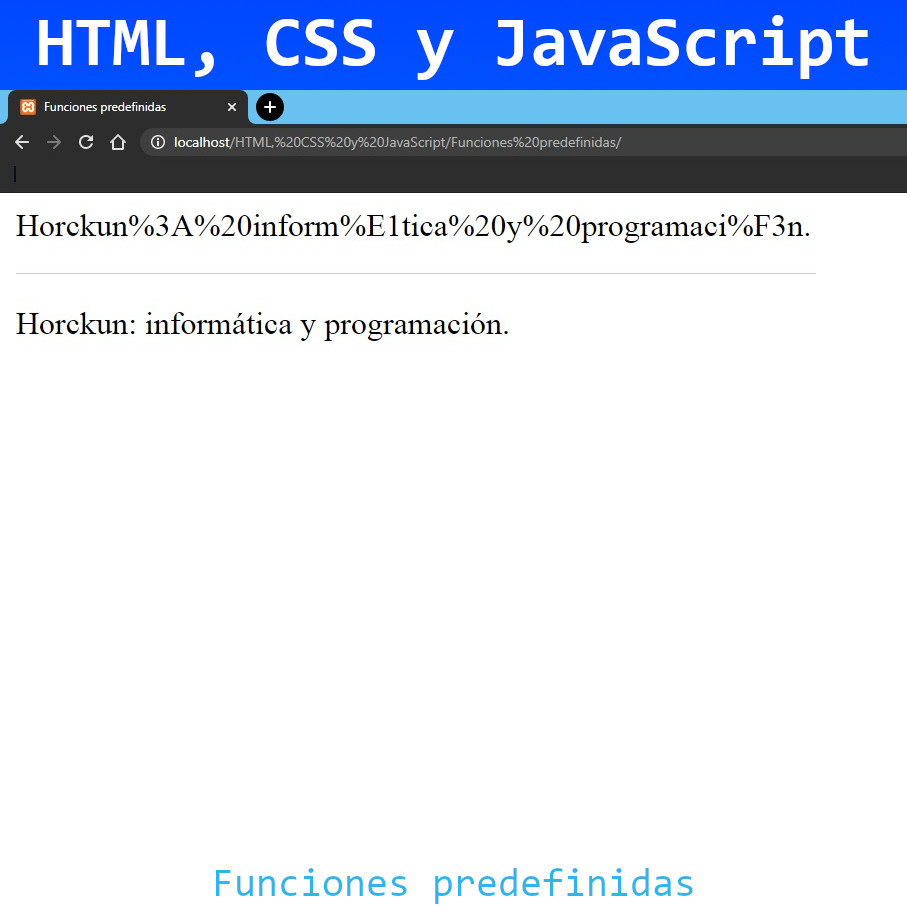
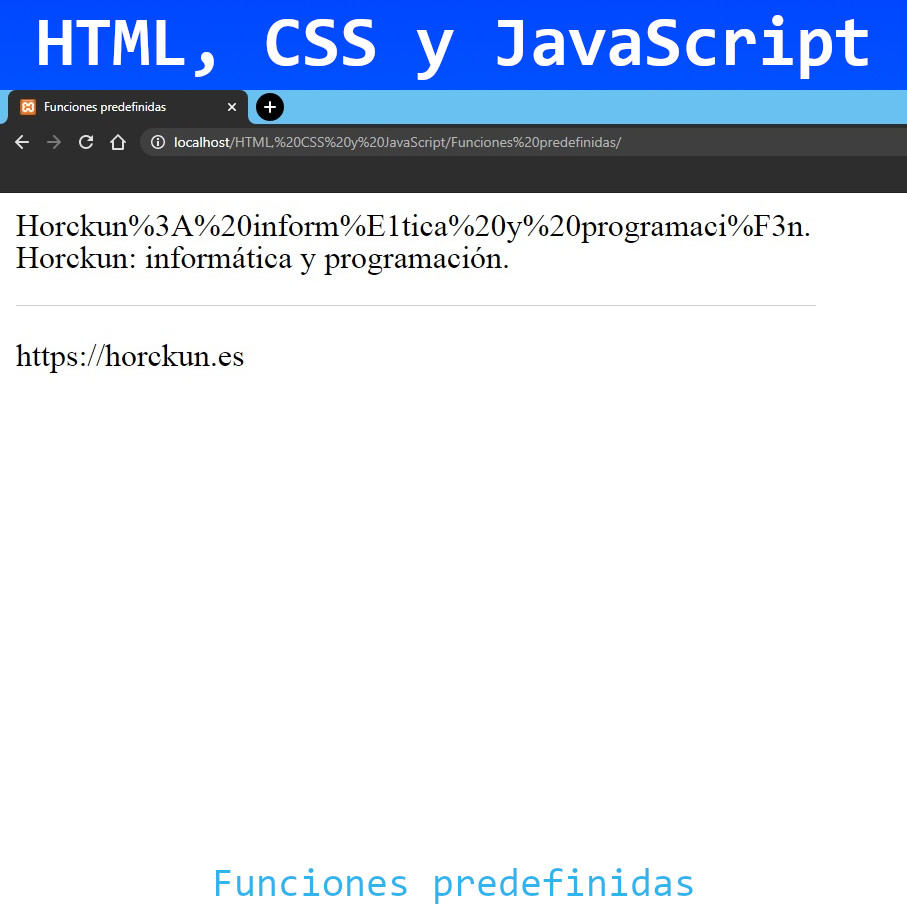
Funciones predefinidas
Funciones predefinidas en JavaScript

Changed region(s): [[0.0, 0.3396, 0.5557, 0.4013], [0.0, 0.2778, 0.5557, 0.3087]]

diff --git a/HTML, CSS y JavaScript/Funciones predefinidas/js/funciones.js b/HTML, CSS y JavaScript/Funciones predefinidas/js/funciones.js
@@ -2,9 +2,12 @@
 var evaluar = escape("Horckun: informática y programación.");
 // MOSTRAR EN PANTALLA
 document.write(evaluar);
+document.write("<br>");
+var evaluar = unescape("Horckun%3A%20inform%E1tica%20y%20programaci%F3n.");
+document.write(evaluar);
 //----------------------
 document.write("<hr>");
 // DECLARAR VARIABLE
-var evaluar = unescape("Horckun%3A%20inform%E1tica%20y%20programaci%F3n.");
+var evaluar = encodeURI("https://horckun.es");
 // MOSTRAR EN PANTALLA
 document.write(evaluar);
